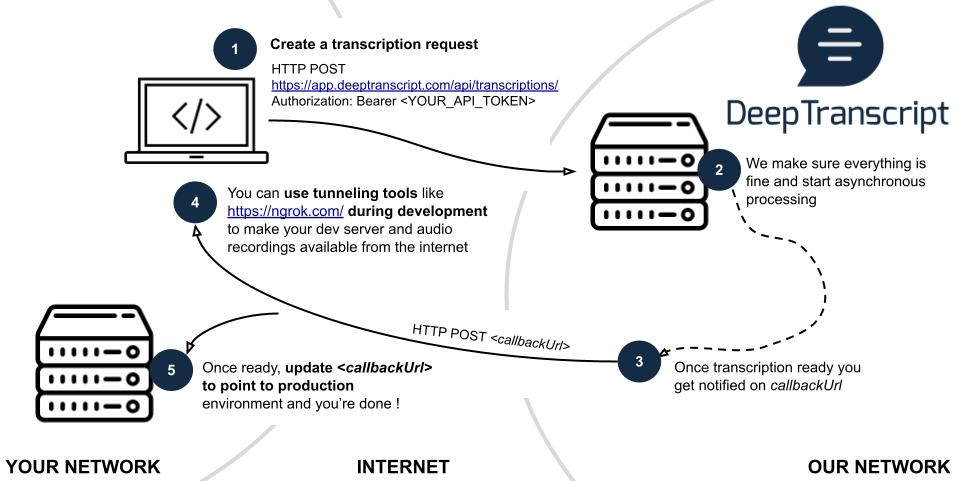
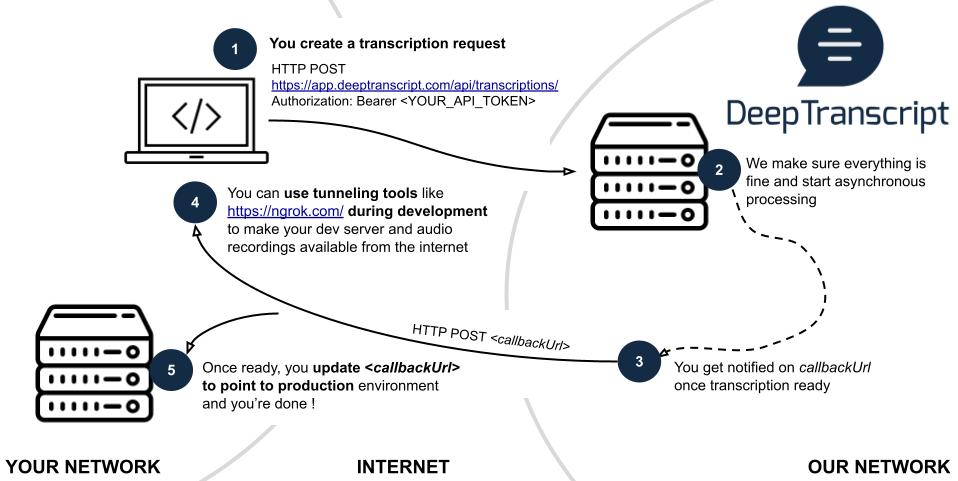
improve README

Changed region(s): [[0.2119, 0.7484, 0.4843, 0.8732], [0.2724, 0.0624, 0.5449, 0.1247], [0.6962, 0.7484, 0.9081, 0.8108]]

diff --git a/README.md b/README.md
@@ -1,17 +1,18 @@
 ![database structure](./docs/logo.png)
 
 [DeepTranscript](https://www.deeptranscript.com) provides state-of-the-art speech-to-text accuracy in both english and french languages.
-In this repository you will see how simple it is to integrate to [DeepTranscript high availability API](https://app.deeptranscript.com/documentation).
+In this repository you will see how simple it is to integrate to [DeepTranscript High Availability API](https://app.deeptranscript.com/documentation).
 
 We will also use:
  - [python flask](https://flask.palletsprojects.com/en/2.0.x/) to start an HTTP server on your machine (listening on port 5000).
- - [ngrok](https://ngrok.com/) to make your server available from the outside
+ - [ngrok](https://ngrok.com/) to make your local server available from the outside
  - [youtube-dl](https://youtube-dl.org/) and [ffmpeg](https://www.ffmpeg.org/) to show you how to extract audio from a video file or from a youtube video
 
 
 
-__Before we begin:__
- - here is how [DeepTranscript API](https://app.deeptranscript.com/documentation) works
+
+## Before we begin
+ - Here is how [DeepTranscript API](https://app.deeptranscript.com/documentation) works
    ![Integration workflow](./docs/api-overview.jpg)
  - Make sure you [signed up](https://app.deeptranscript.com/signup) and get your 20h evaluation welcome bonus
  - Retrieve your API Token from [members configuration](https://app.deeptranscript.com/account/members)
@@ -40,9 +41,9 @@ $ curl https://bin.equinox.io/c/4VmDzA7iaHb/ngrok-stable-linux-amd64.zip --outpu
 ```
 
 Now that everything is installed you can start the flask server on a new shell `shell#1`. 
-This server listen on port 5000 and exposes 2 endpoints (see [./server.py](./server.py) for more info):
- - `/callback`, expecting POST requests and printing requests headers and bodies
- - `/files`, expecting GET requests and serving local files located in [./files](./files) folder
+This server will listen on port 5000 and expose 2 endpoints (see [./server.py](./server.py) for more info):
+ - `http://localhost:5000/callback`, expecting POST requests and printing requests headers and bodies
+ - `http://localhost:5000/files`, expecting GET requests and serving local files located in [./files](./files) folder
 ```shell
 $ cd ./path/to/deeptranscript-demo
 $ source ./venv/bin/activate
@@ -83,7 +84,7 @@ As you can see, the response indicates `state="pending"`. This is because DeepTr
 
 If you take a look to `shell#1`, you should have received transcription information by now…
 
-**Congrats !!! you know have all the information you need to integrate the world’s best machine transcription technology directly into your own products and platforms**
+**Congrats !!! you now have all the information you need to integrate the world’s best machine transcription technology directly into your own products and platforms**
 
 ## Troubleshooting
 If anything goes wrong you will find all the information you need on [DeepTranscript Console](https://app.deeptranscript.com)
